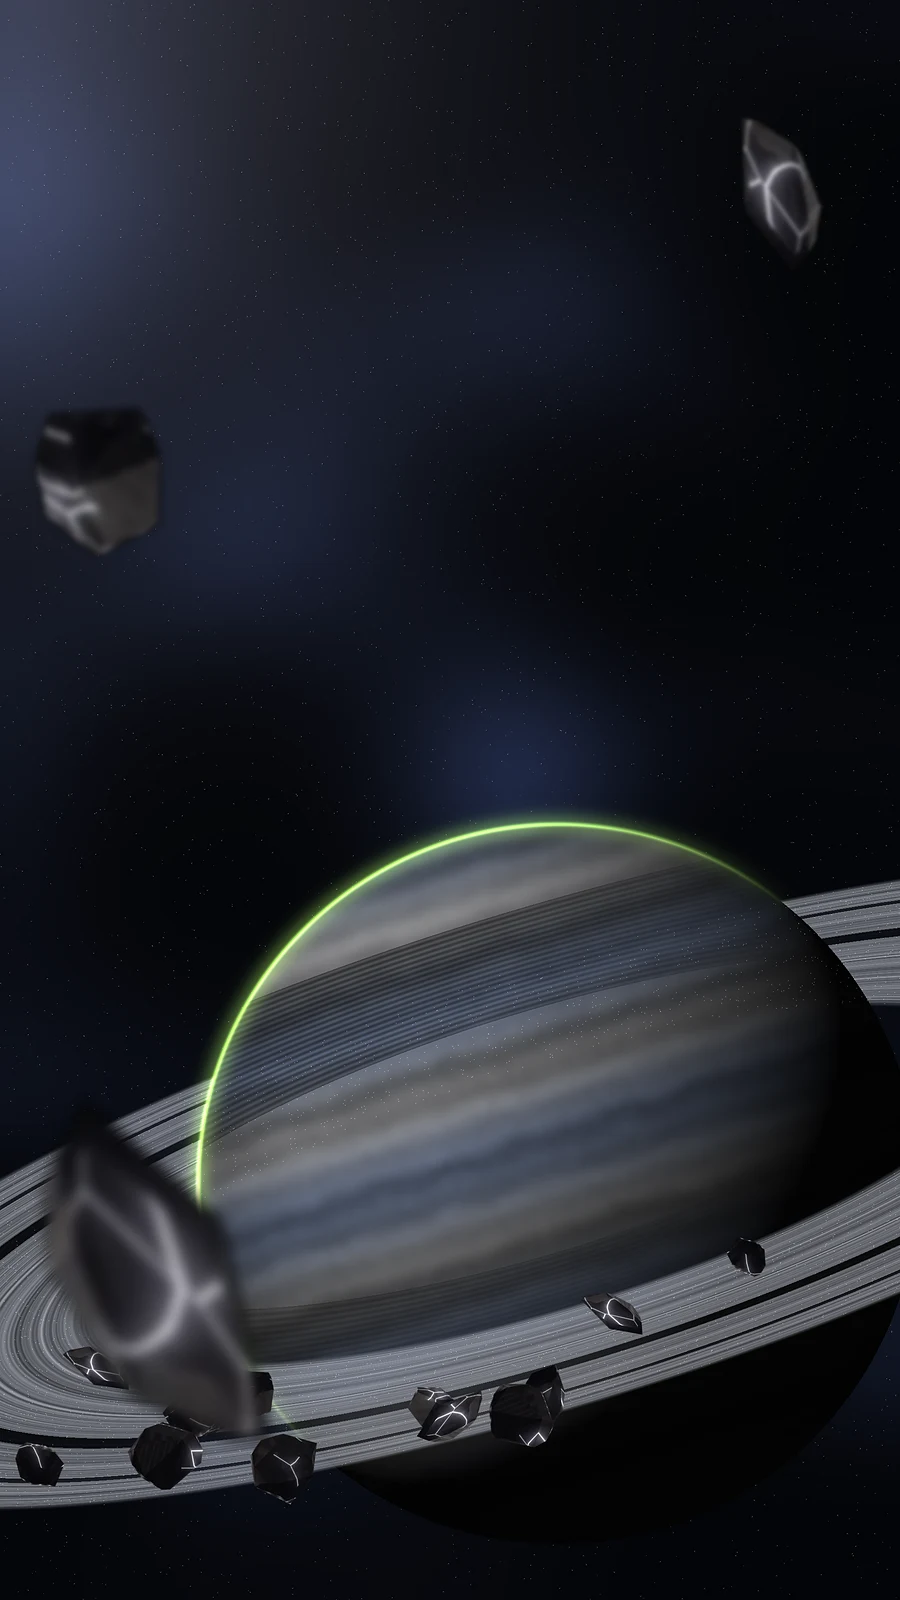
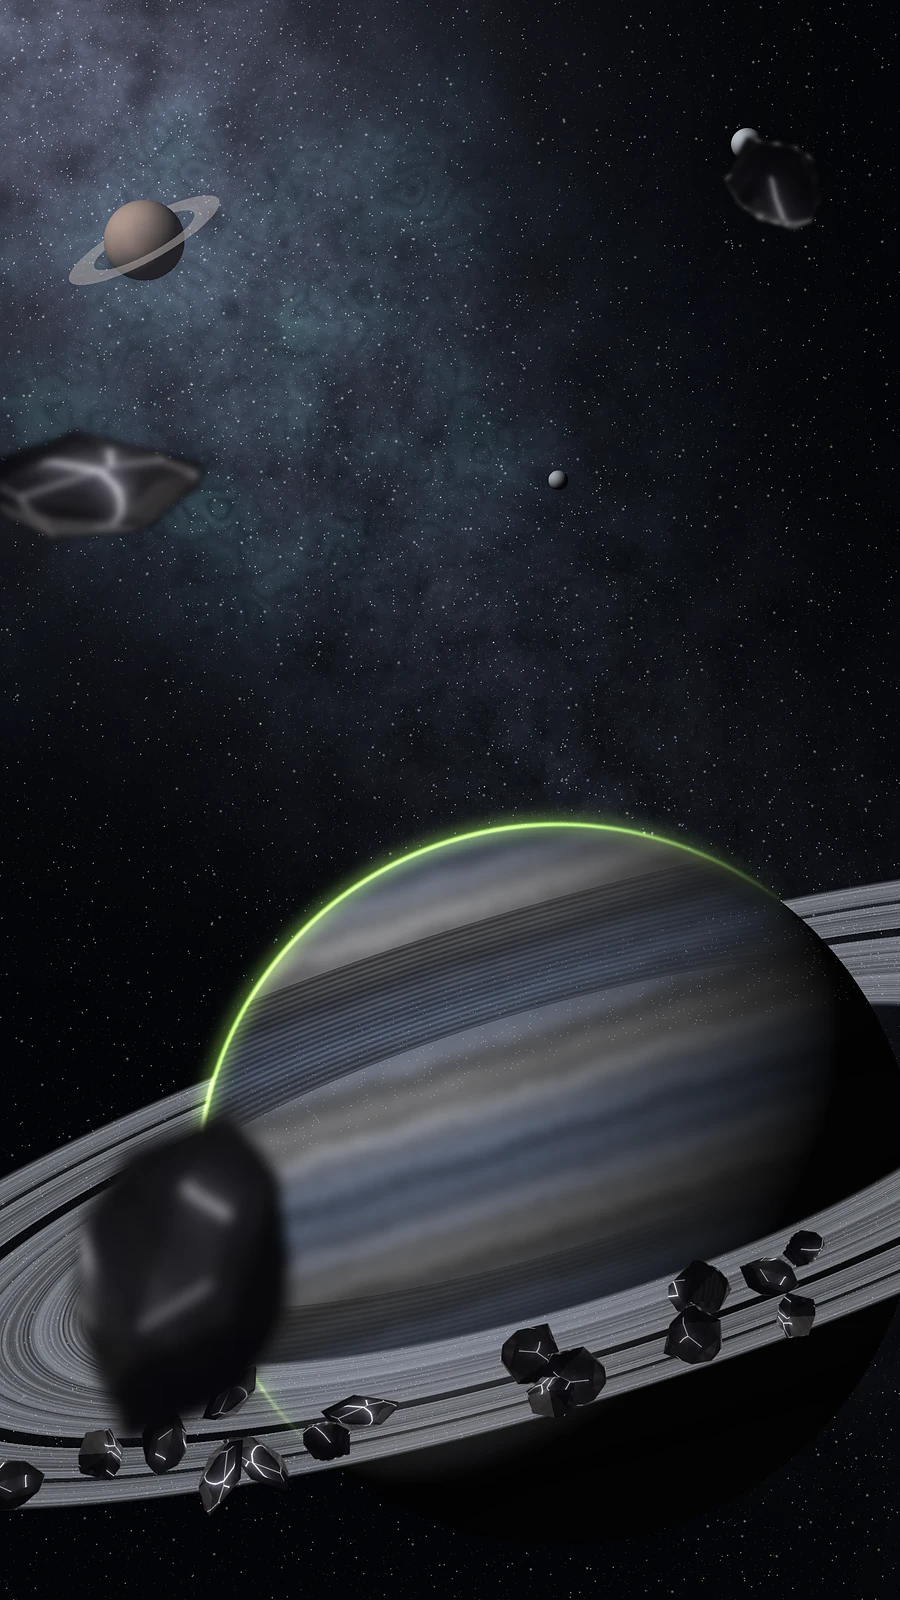
Planète Titane : fond des anneaux plus détaillé (voie lactée et poussières, nébuleuse filamenteuse, étoiles colorées, planète lointaine à anneau, deux lunes)
Claude-Session: https://claude.ai/code/session_01B45CUecZk9Xiu6RkhMkpgN

diff --git a/index.html b/index.html
@@ -1469,44 +1469,44 @@ addEventListener("load", () => setTimeout(() => { const a = document.getElementB
 </main>
 <nav class="nav hidden" id="nav" aria-label="Navigation principale"><button id="nMenu"><svg viewBox="0 0 24 24" aria-hidden="true" fill="none" stroke="currentColor" stroke-width="2" stroke-linecap="round" stroke-linejoin="round"><path d='M3 10.5 12 3l9 7.5'/><path d='M5 9.5V20a1 1 0 0 0 1 1h4v-6h4v6h4a1 1 0 0 0 1-1V9.5'/></svg><span data-en="Home">Accueil</span></button><button id="nProgres"><svg viewBox="0 0 24 24" aria-hidden="true" fill="none" stroke="currentColor" stroke-width="2" stroke-linecap="round" stroke-linejoin="round"><path d='M4 20V10'/><path d='M10 20V4'/><path d='M16 20v-7'/><path d='M22 20H2'/></svg><span data-en="Progress">Progrès</span></button><button id="nProgs"><svg viewBox="0 0 24 24" aria-hidden="true" fill="none" stroke="currentColor" stroke-width="2" stroke-linecap="round" stroke-linejoin="round"><rect x='3' y='4' width='18' height='17' rx='3'/><path d='M8 2v4M16 2v4M3 10h18'/><path d='m9 15 2 2 4-4'/></svg><span data-en="Programmes">Programmes</span></button><button id="nOutils"><svg viewBox="0 0 24 24" aria-hidden="true" fill="none" stroke="currentColor" stroke-width="2" stroke-linecap="round" stroke-linejoin="round"><rect x="3" y="3" width="7" height="7" rx="2"/><rect x="14" y="3" width="7" height="7" rx="2"/><rect x="3" y="14" width="7" height="7" rx="2"/><path d="M17.5 14v7M14 17.5h7"/></svg><span data-en="Tools">Outils</span></button><button id="nMoi"><svg viewBox="0 0 24 24" aria-hidden="true" fill="none" stroke="currentColor" stroke-width="2" stroke-linecap="round" stroke-linejoin="round"><circle cx="12" cy="8" r="4"/><path d="M4 21c0-4.400 3.600-7 8-7s8 2.600 8 7"/></svg><span>Moi</span></button><button id="reglagesBtn"><svg viewBox="0 0 24 24" aria-hidden="true" fill="none" stroke="currentColor" stroke-width="2" stroke-linecap="round" stroke-linejoin="round"><path d="M12.22 2h-.44a2 2 0 0 0-2 2v.18a2 2 0 0 1-1 1.73l-.43.25a2 2 0 0 1-2 0l-.15-.08a2 2 0 0 0-2.73.73l-.22.38a2 2 0 0 0 .73 2.73l.15.1a2 2 0 0 1 1 1.72v.51a2 2 0 0 1-1 1.74l-.15.09a2 2 0 0 0-.73 2.73l.22.38a2 2 0 0 0 2.73.73l.15-.08a2 2 0 0 1 2 0l.43.25a2 2 0 0 1 1 1.73V20a2 2 0 0 0 2 2h.44a2 2 0 0 0 2-2v-.18a2 2 0 0 1 1-1.73l.43-.25a2 2 0 0 1 2 0l.15.08a2 2 0 0 0 2.73-.73l.22-.39a2 2 0 0 0-.73-2.73l-.15-.08a2 2 0 0 1-1-1.74v-.5a2 2 0 0 1 1-1.74l.15-.09a2 2 0 0 0 .73-2.73l-.22-.38a2 2 0 0 0-2.73-.73l-.15.08a2 2 0 0 1-2 0l-.43-.25a2 2 0 0 1-1-1.73V4a2 2 0 0 0-2-2z"/><circle cx="12" cy="12" r="3"/></svg><span data-en="Settings">Réglages</span></button></nav>
 <canvas id="confettis" aria-hidden="true"></canvas>
-<script src="consignes.js?v=2026-11-26l"></script>
-<script src="js/donnees.js?v=2026-11-26l"></script>
-<script src="js/seance.js?v=2026-11-26l"></script>
-<script src="js/progres.js?v=2026-11-26l"></script>
-<script src="js/catalogue.js?v=2026-11-26l"></script>
-<script src="js/profil.js?v=2026-11-26l"></script>
-<script src="js/anatomie.js?v=2026-11-26l"></script>
-<script src="js/evenements.js?v=2026-11-26l"></script>
-<script src="js/outils.js?v=2026-11-26l"></script>
-<script src="js/cardio.js?v=2026-11-26l"></script>
-<script src="js/chronos.js?v=2026-11-26l"></script>
-<script src="js/sports.js?v=2026-11-26l"></script>
-<script src="js/sport.js?v=2026-11-26l"></script>
-<script src="js/boxe.js?v=2026-11-26l"></script>
-<script src="js/foot.js?v=2026-11-26l"></script>
-<script src="js/course.js?v=2026-11-26l"></script>
-<script src="js/trail.js?v=2026-11-26l"></script>
-<script src="js/athle.js?v=2026-11-26l"></script>
-<script src="js/basket.js?v=2026-11-26l"></script>
-<script src="js/tennis.js?v=2026-11-26l"></script>
-<script src="js/padel.js?v=2026-11-26l"></script>
-<script src="js/handball.js?v=2026-11-26l"></script>
-<script src="js/volley.js?v=2026-11-26l"></script>
-<script src="js/cyclisme.js?v=2026-11-26l"></script>
-<script src="js/natation.js?v=2026-11-26l"></script>
-<script src="js/escalade.js?v=2026-11-26l"></script>
-<script src="js/ski.js?v=2026-11-26l"></script>
-<script src="js/surf.js?v=2026-11-26l"></script>
-<script src="js/pilates.js?v=2026-11-26l"></script>
-<script src="js/jeu.js?v=2026-11-26l"></script>
-<script src="js/moi.js?v=2026-11-26l"></script>
-<script src="js/forme.js?v=2026-11-26l"></script>
-<script src="js/masemaine.js?v=2026-11-26l"></script>
-<script src="js/apercus.js?v=2026-11-26l"></script>
-<script src="js/guide.js?v=2026-11-26l"></script>
-<script src="js/clubs.js?v=2026-11-26l"></script>
-<script src="js/coach.js?v=2026-11-26l"></script>
-<script src="js/semaine1.js?v=2026-11-26l"></script>
-<script src="js/planete.js?v=2026-11-26l"></script>
+<script src="consignes.js?v=2026-11-26m"></script>
+<script src="js/donnees.js?v=2026-11-26m"></script>
+<script src="js/seance.js?v=2026-11-26m"></script>
+<script src="js/progres.js?v=2026-11-26m"></script>
+<script src="js/catalogue.js?v=2026-11-26m"></script>
+<script src="js/profil.js?v=2026-11-26m"></script>
+<script src="js/anatomie.js?v=2026-11-26m"></script>
+<script src="js/evenements.js?v=2026-11-26m"></script>
+<script src="js/outils.js?v=2026-11-26m"></script>
+<script src="js/cardio.js?v=2026-11-26m"></script>
+<script src="js/chronos.js?v=2026-11-26m"></script>
+<script src="js/sports.js?v=2026-11-26m"></script>
+<script src="js/sport.js?v=2026-11-26m"></script>
+<script src="js/boxe.js?v=2026-11-26m"></script>
+<script src="js/foot.js?v=2026-11-26m"></script>
+<script src="js/course.js?v=2026-11-26m"></script>
+<script src="js/trail.js?v=2026-11-26m"></script>
+<script src="js/athle.js?v=2026-11-26m"></script>
+<script src="js/basket.js?v=2026-11-26m"></script>
+<script src="js/tennis.js?v=2026-11-26m"></script>
+<script src="js/padel.js?v=2026-11-26m"></script>
+<script src="js/handball.js?v=2026-11-26m"></script>
+<script src="js/volley.js?v=2026-11-26m"></script>
+<script src="js/cyclisme.js?v=2026-11-26m"></script>
+<script src="js/natation.js?v=2026-11-26m"></script>
+<script src="js/escalade.js?v=2026-11-26m"></script>
+<script src="js/ski.js?v=2026-11-26m"></script>
+<script src="js/surf.js?v=2026-11-26m"></script>
+<script src="js/pilates.js?v=2026-11-26m"></script>
+<script src="js/jeu.js?v=2026-11-26m"></script>
+<script src="js/moi.js?v=2026-11-26m"></script>
+<script src="js/forme.js?v=2026-11-26m"></script>
+<script src="js/masemaine.js?v=2026-11-26m"></script>
+<script src="js/apercus.js?v=2026-11-26m"></script>
+<script src="js/guide.js?v=2026-11-26m"></script>
+<script src="js/clubs.js?v=2026-11-26m"></script>
+<script src="js/coach.js?v=2026-11-26m"></script>
+<script src="js/semaine1.js?v=2026-11-26m"></script>
+<script src="js/planete.js?v=2026-11-26m"></script>
 </body>
 </html>

diff --git a/sw.js b/sw.js
@@ -4,8 +4,8 @@
    - Vignettes des listes (vignettes/*.webp) : cache « 2work-vignettes », rempli au fil de l'affichage, conservé entre les versions.
    - Voix 2 WORK (voix/<langue>/*.mp3) : cache « 2work-voix », rempli au fil des séances, conservé entre les versions.
    Changer V à chaque mise en ligne d'une nouvelle version. */
-const V = "2work-v2026-11-26l", VIDEOS = "2work-videos", VIGNETTES = "2work-vignettes", ETAT = "2work-etat", VOIX = "2work-voix";
-const COQUILLE = ["./", "./index.html", "./manifest.webmanifest", "./icons/icon-192.png", "./icons/icon-512.png", "./icons/apple-touch-icon.png", "./icons/favicon-64.png", "./icons/logo.png", "./icons/qr.png", "./consignes.js?v=2026-11-26l", "./js/donnees.js?v=2026-11-26l", "./js/seance.js?v=2026-11-26l", "./js/volume.js?v=2026-11-26l", "./js/progres.js?v=2026-11-26l", "./js/catalogue.js?v=2026-11-26l", "./js/profil.js?v=2026-11-26l", "./js/anatomie.js?v=2026-11-26l", "./js/evenements.js?v=2026-11-26l", "./js/outils.js?v=2026-11-26l", "./js/cardio.js?v=2026-11-26l", "./js/chronos.js?v=2026-11-26l", "./js/sports.js?v=2026-11-26l", "./js/sport.js?v=2026-11-26l", "./js/boxe.js?v=2026-11-26l", "./js/foot.js?v=2026-11-26l", "./js/course.js?v=2026-11-26l", "./js/trail.js?v=2026-11-26l", "./js/athle.js?v=2026-11-26l", "./js/basket.js?v=2026-11-26l", "./js/tennis.js?v=2026-11-26l", "./js/padel.js?v=2026-11-26l", "./js/handball.js?v=2026-11-26l", "./js/volley.js?v=2026-11-26l", "./js/cyclisme.js?v=2026-11-26l", "./js/natation.js?v=2026-11-26l", "./js/escalade.js?v=2026-11-26l", "./js/ski.js?v=2026-11-26l", "./js/surf.js?v=2026-11-26l", "./js/pilates.js?v=2026-11-26l", "./js/jeu.js?v=2026-11-26l", "./js/moi.js?v=2026-11-26l", "./js/forme.js?v=2026-11-26l", "./js/masemaine.js?v=2026-11-26l", "./js/apercus.js?v=2026-11-26l", "./js/guide.js?v=2026-11-26l", "./js/clubs.js?v=2026-11-26l", "./js/coach.js?v=2026-11-26l", "./js/semaine1.js?v=2026-11-26l", "./js/planete.js?v=2026-11-26l", "./js/serveur.js?v=2026-11-26l", "./fonds/chaud.webp", "./fonds/titane.webp", "./fonds/polaire-pic.webp", "./fonds/polaire-anneaux.webp", "./fonds/polaire-lac.webp", "./fonds/astre.webp", "./fonds/eclat1.webp", "./fonds/eclat2.webp", "./fonds/eclat3.webp", "./fonds/eclat4.webp", "./fonds/eclat5.webp", "./fonds/eclat6.webp", "./fonds/vert.webp", "./fonds/bleu.webp",
+const V = "2work-v2026-11-26m", VIDEOS = "2work-videos", VIGNETTES = "2work-vignettes", ETAT = "2work-etat", VOIX = "2work-voix";
+const COQUILLE = ["./", "./index.html", "./manifest.webmanifest", "./icons/icon-192.png", "./icons/icon-512.png", "./icons/apple-touch-icon.png", "./icons/favicon-64.png", "./icons/logo.png", "./icons/qr.png", "./consignes.js?v=2026-11-26m", "./js/donnees.js?v=2026-11-26m", "./js/seance.js?v=2026-11-26m", "./js/volume.js?v=2026-11-26m", "./js/progres.js?v=2026-11-26m", "./js/catalogue.js?v=2026-11-26m", "./js/profil.js?v=2026-11-26m", "./js/anatomie.js?v=2026-11-26m", "./js/evenements.js?v=2026-11-26m", "./js/outils.js?v=2026-11-26m", "./js/cardio.js?v=2026-11-26m", "./js/chronos.js?v=2026-11-26m", "./js/sports.js?v=2026-11-26m", "./js/sport.js?v=2026-11-26m", "./js/boxe.js?v=2026-11-26m", "./js/foot.js?v=2026-11-26m", "./js/course.js?v=2026-11-26m", "./js/trail.js?v=2026-11-26m", "./js/athle.js?v=2026-11-26m", "./js/basket.js?v=2026-11-26m", "./js/tennis.js?v=2026-11-26m", "./js/padel.js?v=2026-11-26m", "./js/handball.js?v=2026-11-26m", "./js/volley.js?v=2026-11-26m", "./js/cyclisme.js?v=2026-11-26m", "./js/natation.js?v=2026-11-26m", "./js/escalade.js?v=2026-11-26m", "./js/ski.js?v=2026-11-26m", "./js/surf.js?v=2026-11-26m", "./js/pilates.js?v=2026-11-26m", "./js/jeu.js?v=2026-11-26m", "./js/moi.js?v=2026-11-26m", "./js/forme.js?v=2026-11-26m", "./js/masemaine.js?v=2026-11-26m", "./js/apercus.js?v=2026-11-26m", "./js/guide.js?v=2026-11-26m", "./js/clubs.js?v=2026-11-26m", "./js/coach.js?v=2026-11-26m", "./js/semaine1.js?v=2026-11-26m", "./js/planete.js?v=2026-11-26m", "./js/serveur.js?v=2026-11-26m", "./fonds/chaud.webp", "./fonds/titane.webp", "./fonds/polaire-pic.webp", "./fonds/polaire-anneaux.webp", "./fonds/polaire-lac.webp", "./fonds/astre.webp", "./fonds/eclat1.webp", "./fonds/eclat2.webp", "./fonds/eclat3.webp", "./fonds/eclat4.webp", "./fonds/eclat5.webp", "./fonds/eclat6.webp", "./fonds/vert.webp", "./fonds/bleu.webp",
   ...["barlow-latin-400", "barlow-latin-500", "barlow-latin-600", "barlow-latin-700", "barlow-condensed-latin-600", "barlow-condensed-latin-700", "barlow-condensed-latin-800"].map(f => `./fonts/${f}-normal.woff2`)];
 self.addEventListener("install", e => e.waitUntil(caches.open(V).then(c => c.addAll(COQUILLE.map(u => new Request(u, { cache: "reload" })))).then(() => self.skipWaiting())));   // « reload » : jamais la copie du cache HTTP, toujours le serveur
 self.addEventListener("activate", e => e.waitUntil(caches.keys().then(l => Promise.all(l.filter(n => ![V, VIDEOS, VIGNETTES, ETAT, VOIX].includes(n)).map(n => caches.delete(n)))).then(() => self.clients.claim())));

diff --git a/outils/anneaux.py b/outils/anneaux.py
@@ -10,10 +10,30 @@ X,Y=np.meshgrid(np.arange(w)/SS,np.arange(h)/SS)
 def lisse(n,s):  # bruit lissé normalisé, à la taille de l'image
     a=gaussian_filter(rng.random((h//n,w//n)),s); a=(a-a.min())/(a.max()-a.min())
     return np.asarray(Image.fromarray((a*255).astype(np.uint8)).resize((w,h),Image.BICUBIC))/255
-# ciel
-o=np.zeros((h,w,3))+np.array([4,5,8.]); neb=lisse(32,6)
-o+=(neb**3)[...,None]*np.array([26,34,58.])
-et=rng.random((h,w)); m=et>0.9993; o[m]=np.array([235,238,248.])*rng.uniform(.35,1,(m.sum(),1))
+# ciel : voie lactée en diagonale avec bandes de poussière, nébuleuse filamenteuse, étoiles de couleurs et de tailles variées,
+# deux lunes et une petite planète lointaine
+o=np.zeros((h,w,3))+np.array([3,4,7.])
+gx=(X-W*0.1)*np.cos(0.95)+(Y-H*0.05)*np.sin(0.95); gy=-(X-W*0.1)*np.sin(0.95)+(Y-H*0.05)*np.cos(0.95)
+bande=np.exp(-(gy/(W*0.28))**2)*np.clip(1-gx/(H*1.2),0,1)
+nuage=lisse(8,4); fil=lisse(2,2); poussiere=np.clip((lisse(5,3)-0.45)*3,0,1)
+vl=bande*(0.45*nuage+0.35*fil)*(1-0.75*poussiere*bande)
+o+=vl[...,None]*np.array([86,92,112.])
+neb=lisse(10,5); fl=np.abs(np.sin(lisse(6,3)*12))  # filaments
+nb=np.exp(-(((X-W*0.30)/(W*0.35))**2+((Y-H*0.22)/(H*0.16))**2))*neb**1.6*(0.6+0.4*fl)
+o+=nb[...,None]*np.array([40,70,96.])+(nb**2)[...,None]*np.array([60,96,40.])
+for k,(seuil,tmin,tmax,flou) in enumerate([(0.9975,.15,.55,0),(0.99965,.5,1,0.6),(0.99996,.9,1,1.6)]):
+    et=rng.random((h,w))<(1-seuil)*(1+3*bande)
+    teint=np.array([[255,250,240],[210,222,255],[255,226,190],[232,238,255]])[rng.integers(4,size=et.sum())]
+    c=np.zeros((h,w,3)); c[et]=teint*rng.uniform(tmin,tmax,(et.sum(),1))
+    o+=gaussian_filter(c,(flou,flou,0))*(1+flou*4) if flou else c
+# petite planète lointaine (à gauche) et deux lunes
+for (cx,cy,rr,col,ann) in [(W*0.16,H*0.15,W*0.045,(150,126,110),True),(W*0.83,H*0.09,W*0.018,(190,196,206),False),(W*0.62,H*0.30,W*0.011,(170,175,185),False)]:
+    ddx,ddy=(X-cx)/rr,(Y-cy)/rr; dd=ddx*ddx+ddy*ddy; nzz=np.sqrt(np.clip(1-dd,0,1))
+    ll=np.clip(-0.6*ddx-0.5*ddy+0.6*nzz,0,1)**1.2
+    o=np.where((dd<1)[...,None],np.array(col)*ll[...,None]*(0.85+0.15*lisse(4,2))[...,None]+4,o)
+    if ann:
+        ax=(X-cx)*np.cos(-0.5)+(Y-cy)*np.sin(-0.5); ay=(-(X-cx)*np.sin(-0.5)+(Y-cy)*np.cos(-0.5))/0.25; ar=np.sqrt(ax*ax+ay*ay)/rr
+        ring=(ar>1.4)&(ar<2.1)&~((dd<1)&(ay<0)); o=np.where(ring[...,None],o*0.5+np.array([170,160,150.])*0.45,o)
 # planète : grande sphère en bas à droite
 pcx,pcy,R=W*0.62,H*0.74,W*0.40
 dx,dy=(X-pcx)/R,(Y-pcy)/R; r2=dx*dx+dy*dy; disque=r2<1; nz=np.sqrt(np.clip(1-r2,0,1))
